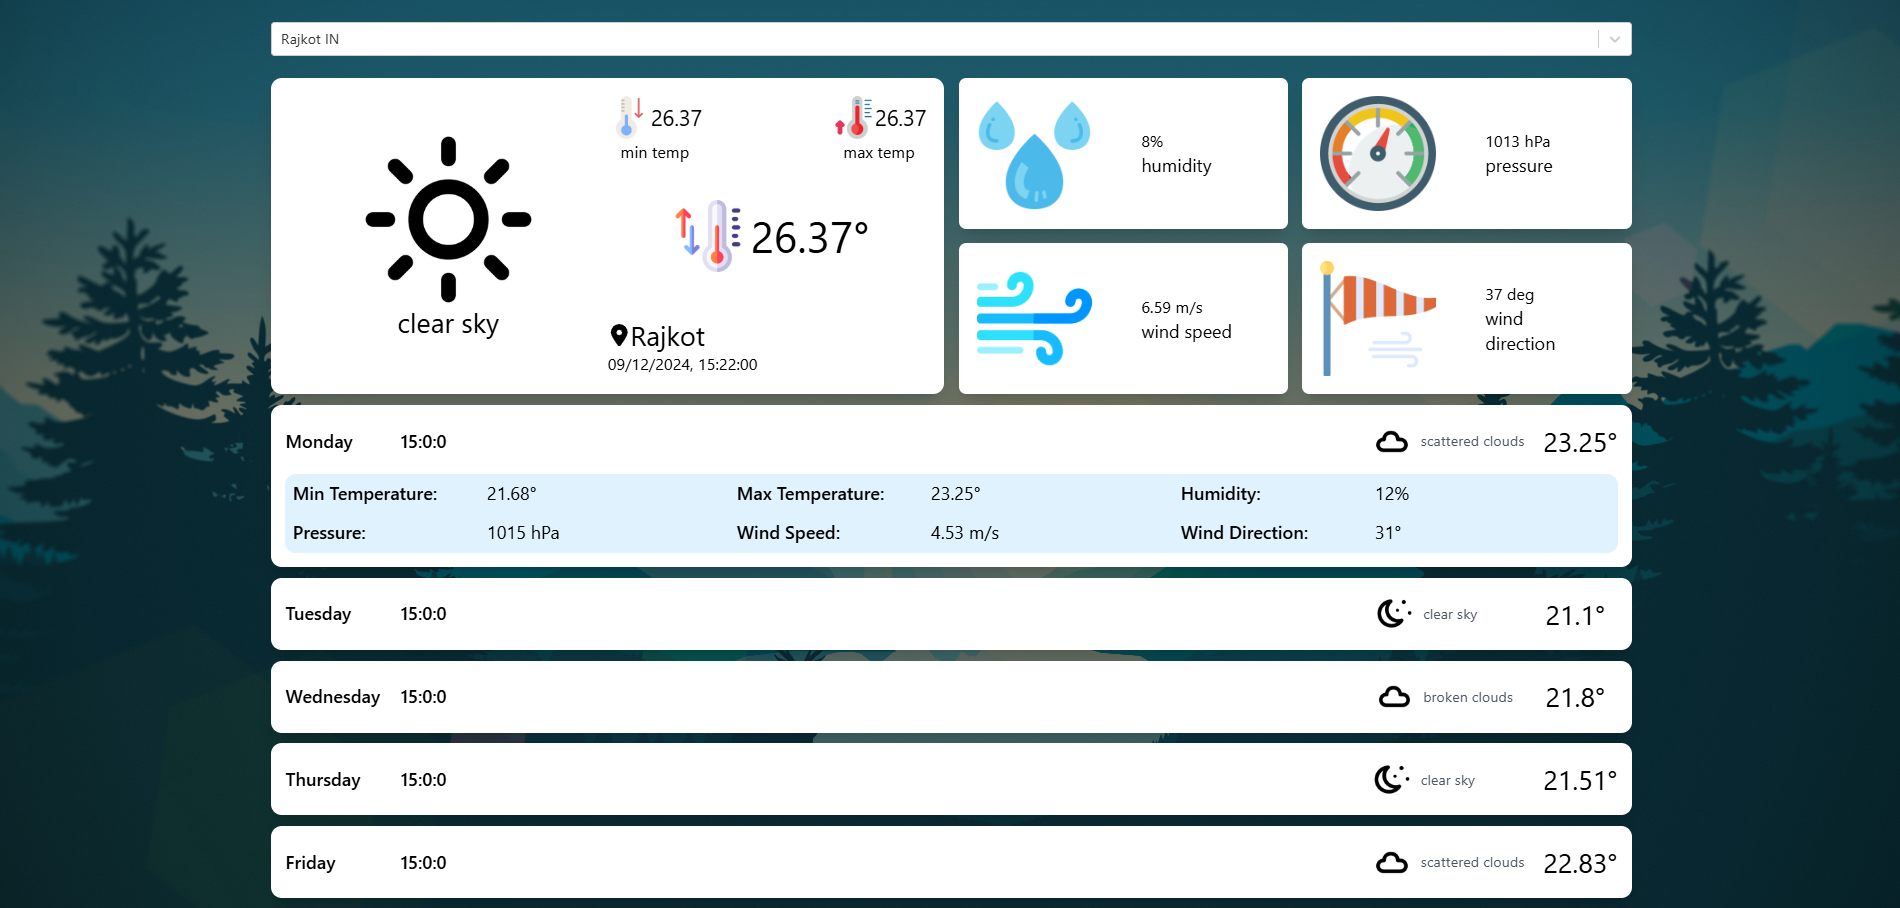
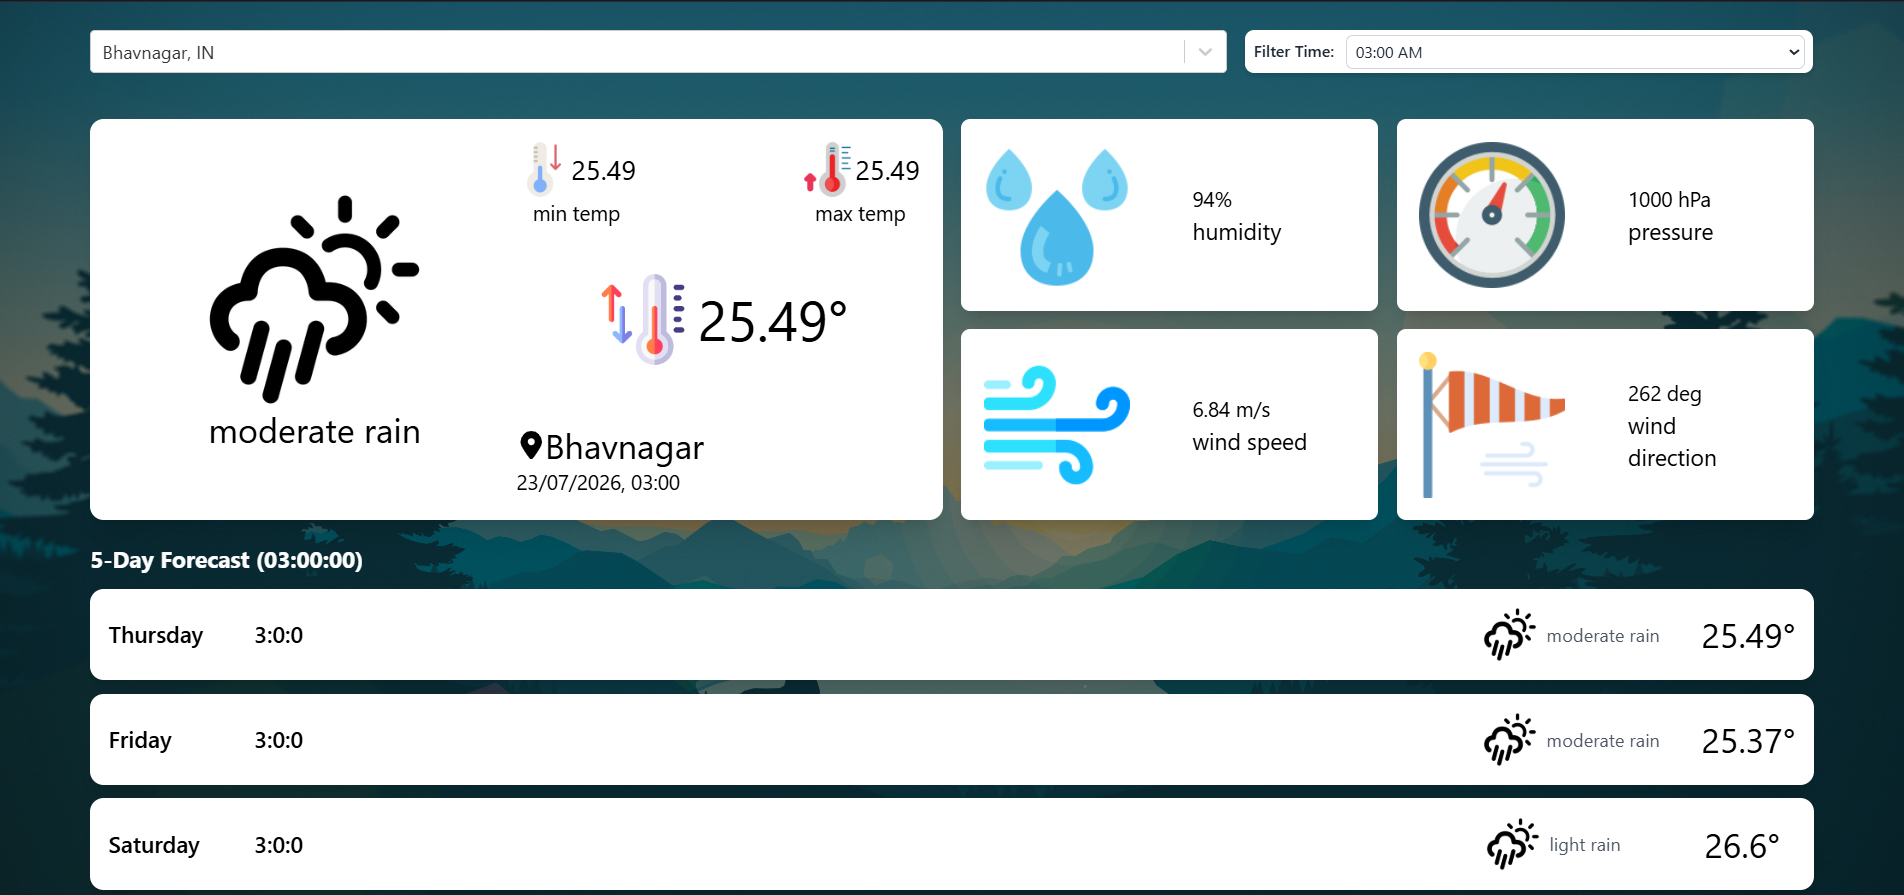
code refactor

diff --git a/src/pages/Projects.jsx b/src/pages/Projects.jsx
@@ -1,5 +1,5 @@
 import { motion } from 'framer-motion';
-import { Monitor } from 'lucide-react';
+import { Code2, FolderGit2, Monitor, Presentation } from 'lucide-react';
 import job from "../assets/home.png"
 import resume from "../assets/resume.png"
 import stepzone from "../assets/stepzone.png"
@@ -11,25 +11,25 @@ export default function Projects() {
       title: 'Job Portal',
       image: job,
       liveLink: null,
-      githubLink: '#',
+      githubLink: 'https://github.com/samir-27/jobapp-frontend',
     },
     {
       title: 'e-commerce',
       image: stepzone,
       liveLink: null, 
-      githubLink: '#',
+      githubLink: 'https://github.com/samir-27/stepzone-frontend',
     },
     {
       title: 'Weather App',
       image: weather,
-      liveLink: '#',
-      githubLink: '#',
+      liveLink: 'myweather-27.netlify.app',
+      githubLink: 'https://github.com/samir-27/my-weather',
     },
     {
       title: 'Resume builder',
       image: resume,
       liveLink: null,
-      githubLink: '#',
+      githubLink: 'https://github.com/samir-27/resume-builder',
     },
   ];
 
@@ -47,25 +47,28 @@ export default function Projects() {
   };
 
   return (
-    <section className="min-h-[85vh] w-full flex flex-col py-12 relative overflow-hidden">
+    <section className="min-h-[85vh] w-full flex flex-col  relative overflow-hidden">
       
       {/* Optional: Subtle background glow to break up the solid black */}
       <div className="absolute top-1/4 left-1/2 -translate-x-1/2 w-3/4 h-1/2 bg-indigo-500/5 blur-[120px] rounded-full pointer-events-none -z-10" />
 
-      <div className="w-full max-w-7xl mx-auto px-4 lg:px-8">
-        
+
         {/* Page Header */}
-        <motion.div 
+        <motion.div
           initial={{ opacity: 0, y: -20 }}
           animate={{ opacity: 1, y: 0 }}
-          className="mb-14 border-b border-zinc-800/50 pb-6 flex items-center justify-between"
+          className="flex items-center gap-3 mb-16"
         >
+          <div className="p-3 bg-zinc-900 border border-zinc-800 rounded-xl">
+            <FolderGit2 className="text-zinc-100" size={24} />
+          </div>
           <h2 className="text-3xl lg:text-4xl font-bold text-zinc-50 tracking-tight">
-            Something I've Built
+            My Projects
           </h2>
-          {/* Decorative dash */}
-          <div className="hidden md:block h-px flex-1 bg-gradient-to-r from-zinc-800/50 to-transparent ml-8" />
         </motion.div>
+
+      <div className="w-full max-w-7xl ">
+        
 
         {/* Gallery Grid */}
         <motion.div 
@@ -78,20 +81,17 @@ export default function Projects() {
             <motion.div 
               key={index}
               variants={itemVariants}
-              // Card Wrapper: Adds background, padding, and hover lift
-              className="group flex flex-col bg-zinc-900/30 hover:bg-zinc-900/60 border border-zinc-800/50 hover:border-zinc-700/80 rounded-2xl p-4 transition-all duration-300 hover:-translate-y-1 hover:shadow-2xl hover:shadow-indigo-500/5"
+              className="group flex flex-col bg-zinc-900/60 border border-zinc-800/50 hover:border-zinc-700/80 rounded-2xl p-4 transition-all duration-300 hover:-translate-y-1 hover:shadow-2xl hover:shadow-indigo-500/5"
             >
               
               {/* Image Container: Perfectly constrained to 16:9 */}
-              <div className="relative w-full aspect-video rounded-xl overflow-hidden bg-zinc-950 mb-5 border border-zinc-800/50">
+              <div className="relative w-full aspect-video rounded-xl overflow-hidden  mb-5 border border-zinc-800/50">
                 <img 
                   src={project.image} 
                   alt={project.title} 
-                  // w-full h-full object-cover ensures it fills the box without distortion
                   className="w-full h-full object-cover group-hover:scale-105 transition-transform duration-700 ease-out"
                 />
-                {/* Subtle overlay that fades out on hover */}
-                <div className="absolute inset-0 bg-zinc-950/20 group-hover:bg-transparent transition-colors duration-500" />
+       
               </div>
 
               {/* Title */}
@@ -106,7 +106,6 @@ export default function Projects() {
                     href={project.liveLink}
                     target="_blank"
                     rel="noopener noreferrer"
-                    // Modern glassy indigo button
                     className="flex-1 flex items-center justify-center gap-2 py-2.5 bg-indigo-500/10 hover:bg-indigo-500/20 border border-indigo-500/20 hover:border-indigo-500/40 text-indigo-400 text-sm font-semibold rounded-lg transition-all duration-300"
                   >
                     <Monitor size={16} />

diff --git a/src/pages/Skills.jsx b/src/pages/Skills.jsx
@@ -49,7 +49,7 @@ export default function Skills() {
   };
 
   return (
-    <section className="min-h-[85vh] w-full flex items-center justify-center py-12">
+    <section className="min-h-[85vh] w-full ">
       <div className="w-full max-w-4xl">
         
         {/* Page Header */}